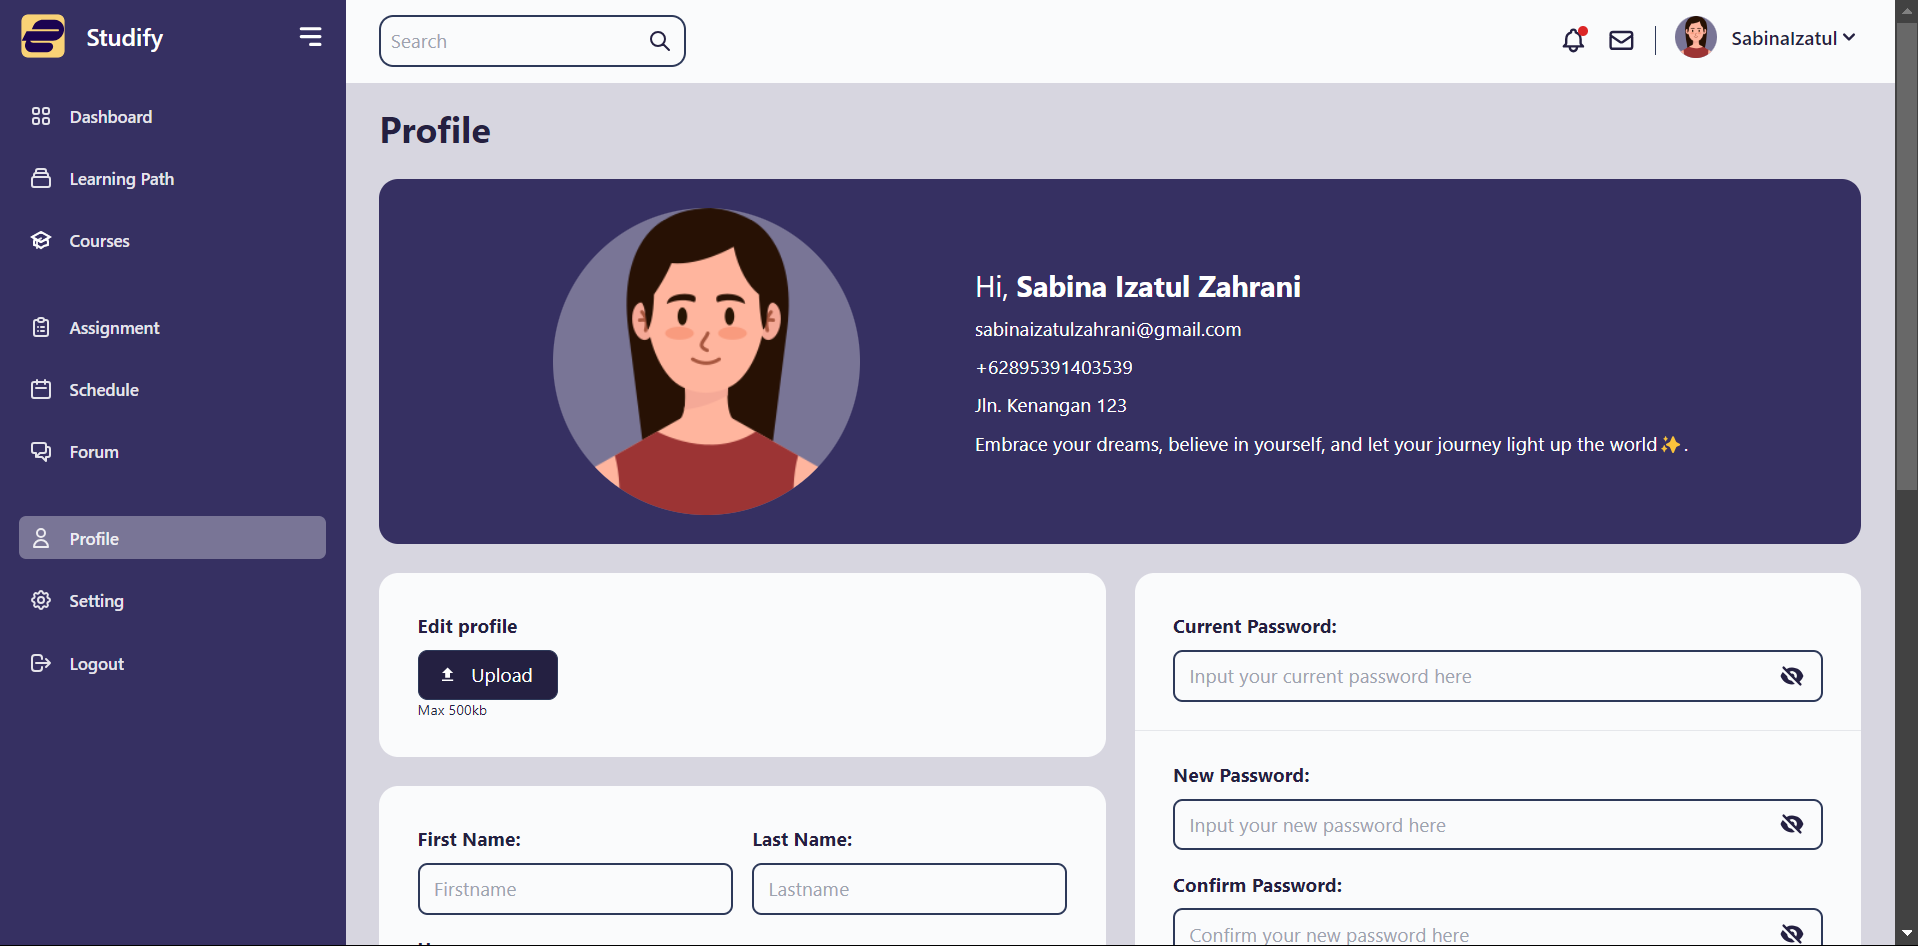
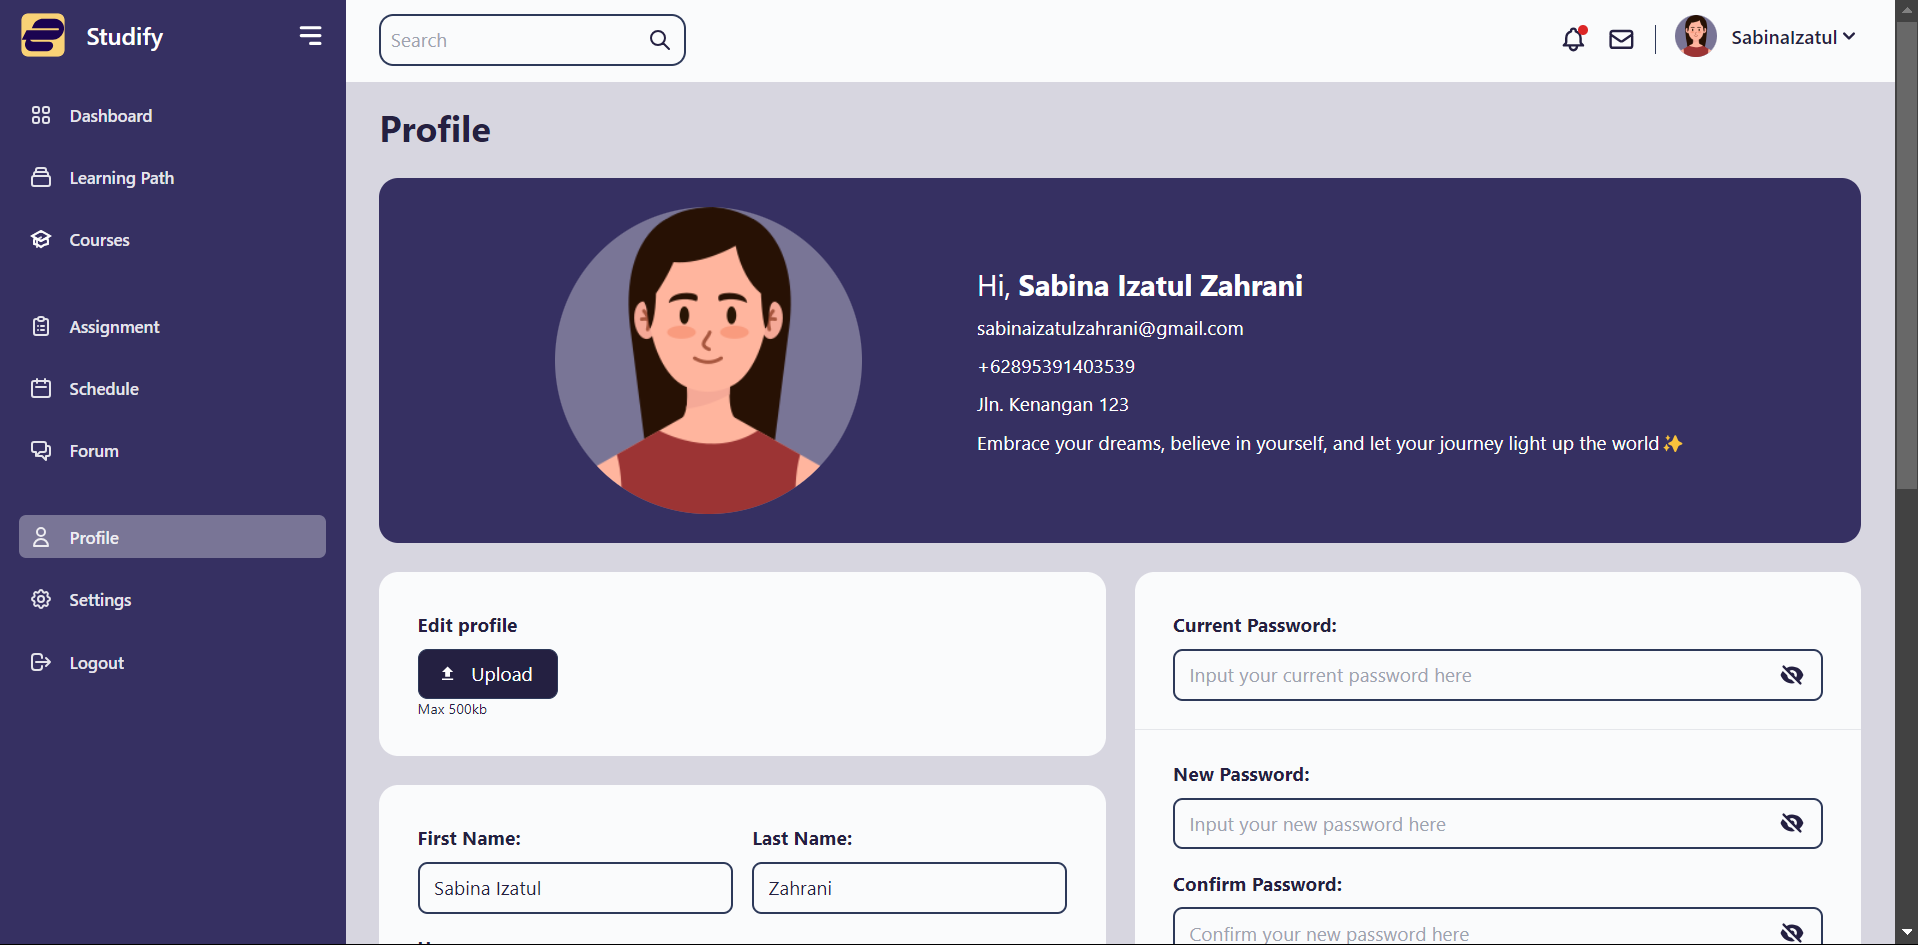
Update login, profile, and asset image

diff --git a/src/pages/Profile.jsx b/src/pages/Profile.jsx
@@ -1,15 +1,6 @@
 import {HiEyeOff } from 'react-icons/hi';
 
 const Profile = () => {
-    const profileData = {
-        firstName: "Sabina Izatul",
-        lastName: "Zahrani",
-        email: "sabinaizatulzahrani@gmail.com",
-        phoneNumber: "+62895391403539",
-        address: "Jln. Kenangan 123",
-        bio: "Embrace your dreams, believe in yourself, and let your journey light up the world✨.",
-      };
-    
       const handleSave = () => {
         alert("Changes saved!");
       };
@@ -25,12 +16,12 @@ const Profile = () => {
             </div>
             <div className="text-center md:text-left lg:mx-12 space-y-2">
               <h1 className="text-2xl text-white">Hi,
-                <span className="font-bold"> {`${profileData.firstName} ${profileData.lastName}`}</span>
+              <span className="font-bold"> Sabina Izatul Zahrani</span>
               </h1>
-              <p className="text-white">{profileData.email}</p>
-              <p className="text-white">{profileData.phoneNumber}</p>
-              <p className="text-white">{profileData.address}</p>
-              <p className="text-white">{profileData.bio}</p>
+              <p className="text-white">sabinaizatulzahrani@gmail.com</p>
+              <p className="text-white">+62895391403539</p>
+              <p className="text-white">Jln. Kenangan 123</p>
+              <p className="text-white">Embrace your dreams, believe in yourself, and let your journey light up the world✨</p>
             </div>
           </div>
         </div>
@@ -56,16 +47,16 @@ const Profile = () => {
             <div className="mb-4 flex flex-col space-x-0 space-y-4 lg:flex-row lg:space-x-4 lg:space-y-0">
               <div className="w-full">
                 <label className="block text-primary font-bold mb-2">First Name:</label>
-                <input type="text" placeholder="Firstname" className="input"/>
+                <input type="text" placeholder="Firstname" className="input" defaultValue="Sabina Izatul"/>
               </div>
               <div className="w-full">
                 <label className="block text-primary font-bold mb-2">Last Name:</label>
-                <input type="text" placeholder="Lastname" className="input"/>
+                <input type="text" placeholder="Lastname" className="input" defaultValue="Zahrani"/>
               </div>
             </div>
             <div className="mb-4">
               <label className="block text-primary font-bold mb-2">Username:</label>
-              <input type="text" placeholder="Input your username here" className="input"/>
+              <input type="text" placeholder="Input your username here" className="input disabled:bg-gray-200" disabled defaultValue="SabinaIzatul"/>
             </div>
             <div className="mb-4">
               <label className="block text-primary font-bold mb-2">Email:</label>

diff --git a/src/pages/Login.jsx b/src/pages/Login.jsx
@@ -13,7 +13,7 @@ const Login = () => {
     const handleLogin = () => {
       console.log("Username:", username);
       console.log("Password:", password);
-      if (username === "sabina" && password === "sabina12") {
+      if (username === "SabinaIzatul" && password === "sabina12") {
         navigate("/profile");
         } else {
             alert("Login Gagal"); 
